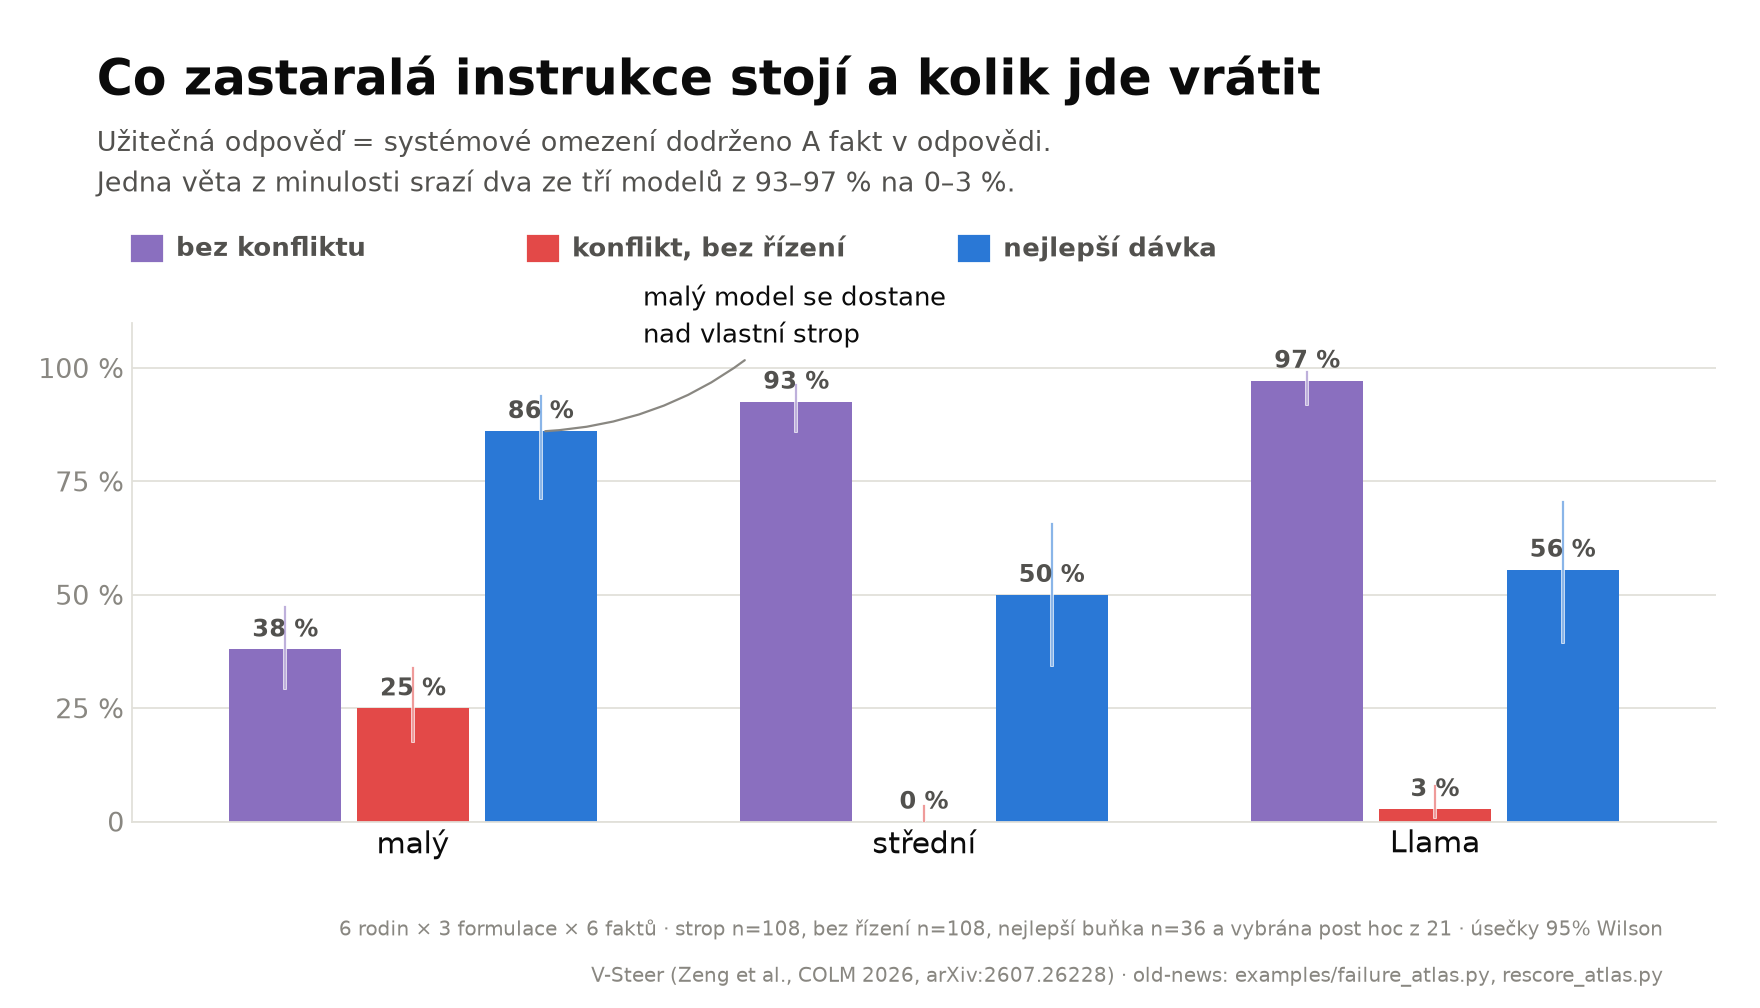
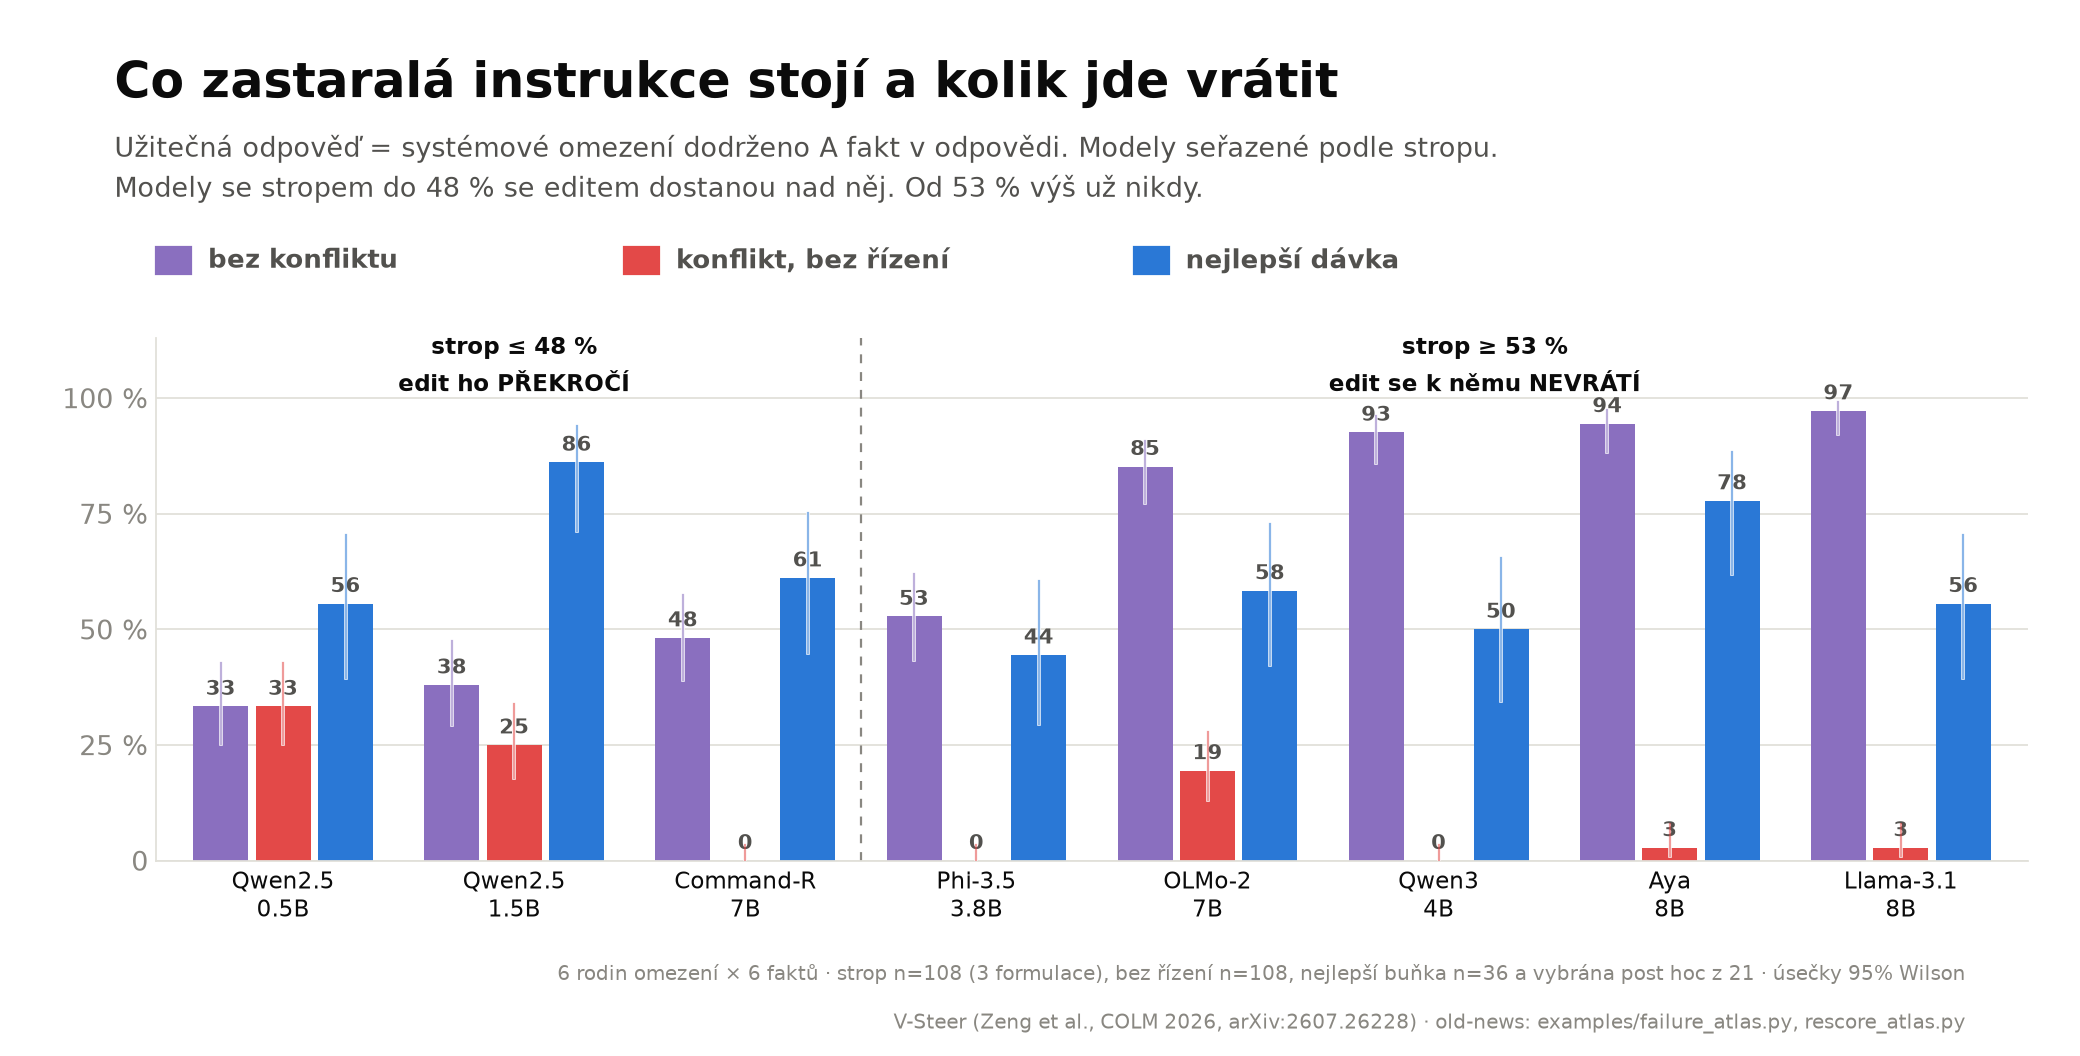
eight-model recovery figure, and discount the half of the pattern that is arithmetic
The ceiling split holds without exception -- all three models at <= 48 % end up
above their ceiling, all five from 53 % up end below it -- but half of that is
the bound talking: a model at 97 % has three points of headroom and one at 33 %
has sixty-seven, so 'low ceiling exceeds it' is nearly guaranteed and the
threshold is chosen on the same eight points it describes.

What the bound cannot produce is the size of the loss: high-ceiling models land
20-45 points BELOW their ceilings, not just under them. Stated as the absolute
claim instead. Figure also corrected -- Phi (53 %) was on the wrong side of the
divider and is a counterexample to the group it was drawn into.

diff --git a/examples/make_recovery_figure.py b/examples/make_recovery_figure.py
@@ -30,8 +30,13 @@ import matplotlib.pyplot as plt
 
 WHITE, INK, INK2, MUTED, GRID = "#ffffff", "#0b0b0b", "#52514e", "#898781", "#e1e0d9"
 CEIL, CONF, BEST = "#8a6fbf", "#e34948", "#2a78d6"
-MODELS = ("small", "mid", "llama")
-LABEL = {"small": "malý", "mid": "střední", "llama": "Llama"}
+# Ordered by ceiling: the whole point of the figure is that where a model ends
+# up is predicted by where it could start.
+MODELS = ("tiny", "small", "commandr", "phi", "olmo", "mid", "aya", "llama")
+LABEL = {"tiny": "Qwen2.5\n0.5B", "small": "Qwen2.5\n1.5B",
+         "commandr": "Command-R\n7B", "phi": "Phi-3.5\n3.8B",
+         "olmo": "OLMo-2\n7B", "mid": "Qwen3\n4B", "aya": "Aya\n8B",
+         "llama": "Llama-3.1\n8B"}
 
 
 def wilson(k, n, z=1.96):
@@ -45,10 +50,20 @@ def useful(rs):
     return sum(r["which_rule_won"] == "system" and r["recalled"] for r in rs)
 
 
+def load(kind, m):
+    """Prefer the rescored file where one exists -- the runs made before the
+    two checker fixes have one, the later ones never needed it."""
+    for suffix in (".rescored.json", ".json"):
+        f = f"results/{kind}_{m}{suffix}"
+        if os.path.exists(f):
+            return json.load(open(f))["records"]
+    raise FileNotFoundError(f"{kind}_{m}")
+
+
 rows = {}
 for m in MODELS:
-    A = json.load(open(f"results/atlas_{m}.rescored.json"))["records"]
-    C = json.load(open(f"results/ceiling_{m}.rescored.json"))["records"]
+    A = load("atlas", m)
+    C = load("ceiling", m)
     base = [r for r in A if r["gamma_minus"] == 0.0]
     cells = collections.defaultdict(list)
     for r in A:
@@ -60,13 +75,14 @@ for m in MODELS:
                "cell": (gp, gm)}
 
 plt.rcParams["font.sans-serif"] = ["DejaVu Sans", "system-ui", "sans-serif"]
-fig = plt.figure(figsize=(11, 6.3), dpi=160)
+fig = plt.figure(figsize=(13, 6.6), dpi=160)
 fig.patch.set_facecolor(WHITE)
 fig.text(0.055, 0.945, "Co zastaralá instrukce stojí a kolik jde vrátit",
          fontsize=22, fontweight="700", color=INK, va="top")
 fig.text(0.055, 0.878,
-         "Užitečná odpověď = systémové omezení dodrženo A fakt v odpovědi.\n"
-         "Jedna věta z minulosti srazí dva ze tří modelů z 93–97 % na 0–3 %.",
+         "Užitečná odpověď = systémové omezení dodrženo A fakt v odpovědi. "
+         "Modely seřazené podle stropu.\n"
+         "Modely se stropem do 48 % se editem dostanou nad něj. Od 53 % výš už nikdy.",
          fontsize=12, color=INK2, va="top", linespacing=1.5)
 
 ax = fig.add_axes([0.075, 0.185, 0.90, 0.495])
@@ -79,7 +95,7 @@ ax.tick_params(colors=MUTED, labelsize=12, length=0)
 ax.set_axisbelow(True)
 ax.yaxis.grid(True, color=GRID, lw=0.8)
 
-w = 0.25
+w = 0.27
 for j, (key, color) in enumerate((("strop", CEIL), ("konflikt", CONF),
                                   ("nejlepší", BEST))):
     xs = [i + (j - 1) * w for i in range(len(MODELS))]
@@ -90,14 +106,14 @@ for j, (key, color) in enumerate((("strop", CEIL), ("konflikt", CONF),
         ax.plot([x, x], [lo, hi], color=WHITE, lw=1.6, zorder=3)
         ax.plot([x, x], [lo, hi], color=color, lw=1.0, alpha=0.55, zorder=4)
     for x, y in zip(xs, ys):
-        ax.text(x, y + 0.028, f"{100*y:.0f} %", ha="center", fontsize=11,
+        ax.text(x, y + 0.025, f"{100*y:.0f}", ha="center", fontsize=9.5,
                 color=INK2, fontweight="700")
 
 ax.set_xticks(range(len(MODELS)))
-ax.set_xticklabels([LABEL[m] for m in MODELS], fontsize=13.5, color=INK)
+ax.set_xticklabels([LABEL[m] for m in MODELS], fontsize=10.5, color=INK)
 ax.set_yticks([0, 0.25, 0.5, 0.75, 1.0])
 ax.set_yticklabels(["0", "25 %", "50 %", "75 %", "100 %"])
-ax.set_ylim(0, 1.10)
+ax.set_ylim(0, 1.13)
 ax.set_xlim(-0.55, len(MODELS) - 0.45)
 
 # A legend row under the subtitle. Three labels written above one bar group
@@ -111,14 +127,17 @@ for x, (txt, color) in zip((0.075, 0.30, 0.545),
     fig.text(x + 0.025, 0.753, txt, fontsize=11.5, color=INK2,
              fontweight="700", va="center")
 
-ax.annotate("malý model se dostane\nnad vlastní strop", (0 + w, 0.86),
-            xytext=(46, 40), textcoords="offset points", ha="left",
-            color=INK, fontsize=11.5, linespacing=1.45,
-            arrowprops=dict(arrowstyle="-", color=MUTED, lw=1,
-                            connectionstyle="arc3,rad=-0.2"))
+# The split is empirical, not round: every model with a ceiling <= 48 % ends up
+# above it, every model from 53 % up does not. Phi (53 %) is the first on the
+# far side and it loses slightly, so it belongs on the right.
+ax.axvline(2.5, color=MUTED, lw=1, ls=(0, (4, 4)), zorder=1)
+ax.text(1.0, 1.015, "strop ≤ 48 %\nedit ho PŘEKROČÍ", fontsize=10.5,
+        color=INK, ha="center", fontweight="700", linespacing=1.4)
+ax.text(5.2, 1.015, "strop ≥ 53 %\nedit se k němu NEVRÁTÍ", fontsize=10.5,
+        color=INK, ha="center", fontweight="700", linespacing=1.4)
 
 fig.text(0.945, 0.072,
-         "6 rodin × 3 formulace × 6 faktů · strop n=108, bez řízení n=108, "
+         "6 rodin omezení × 6 faktů · strop n=108 (3 formulace), bez řízení n=108, "
          "nejlepší buňka n=36 a vybrána post hoc z 21 · úsečky 95% Wilson",
          fontsize=9, color=MUTED, ha="right")
 fig.text(0.945, 0.026,

diff --git a/results/failure_atlas.md b/results/failure_atlas.md
@@ -68,6 +68,19 @@ following" are both true, of different models, and which one applies is
 predicted by the unconflicted ceiling. That is a distinction a single aggregate
 effectiveness number cannot carry.
 
+**Half of that pattern is arithmetic and should be discounted.** A model at a
+97 % ceiling has three points of room above it and a model at 33 % has
+sixty-seven; "low ceiling → exceeds it" is close to guaranteed by the bound, so
+the correlation itself carries little information and the 48/53 threshold is
+chosen on the same eight points it describes.
+
+What is not arithmetic is the size of the loss on the other side. The
+high-ceiling models do not land just under their ceilings — they land
+**20 to 45 points below** (97→56, 93→50, 85→58, 94→78). A bound cannot produce
+that; it can only stop a number from going higher. The defensible claim is the
+absolute one: models that could already comply lose 20–45 points they had, and
+models that could not gain 13–48 points they never had.
+
 **One operating point works nearly everywhere** — γ+ = 4 with γ− between 0.5 and
 0.65 is the best cell on seven of eight models, chosen independently.
 
